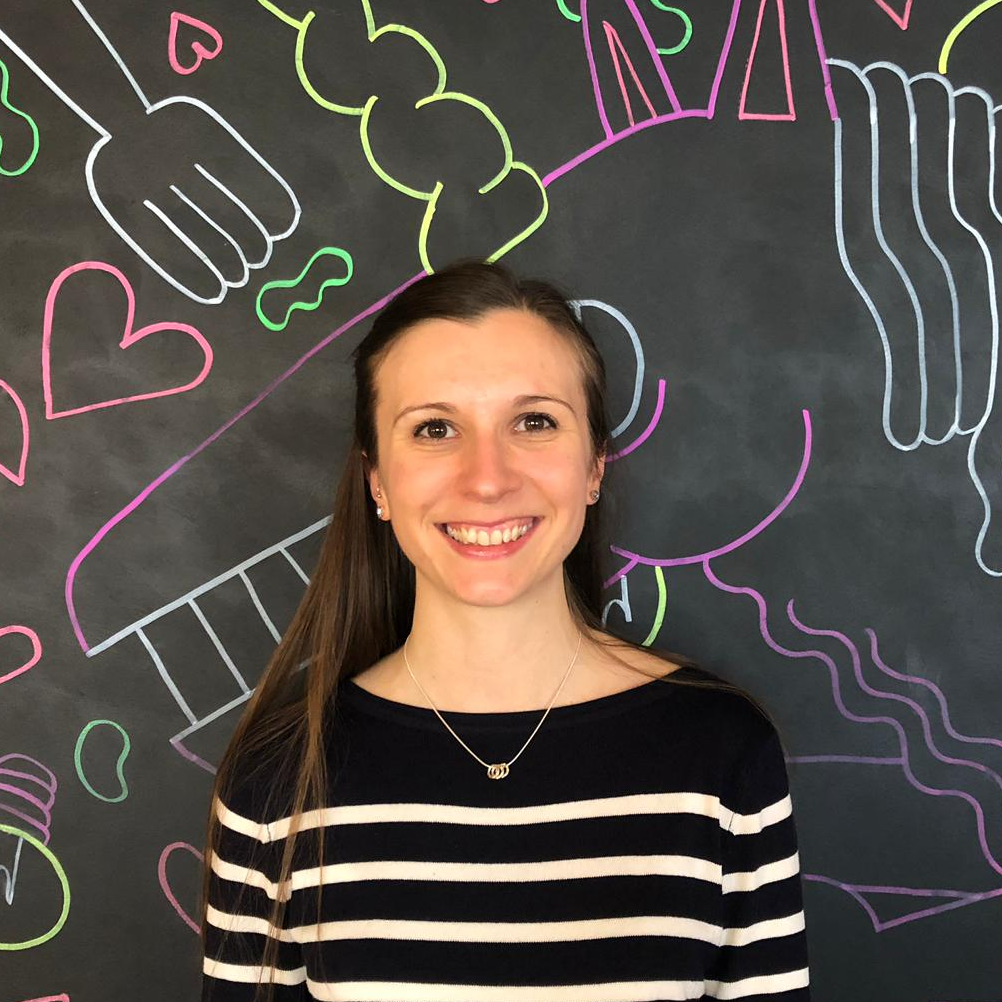
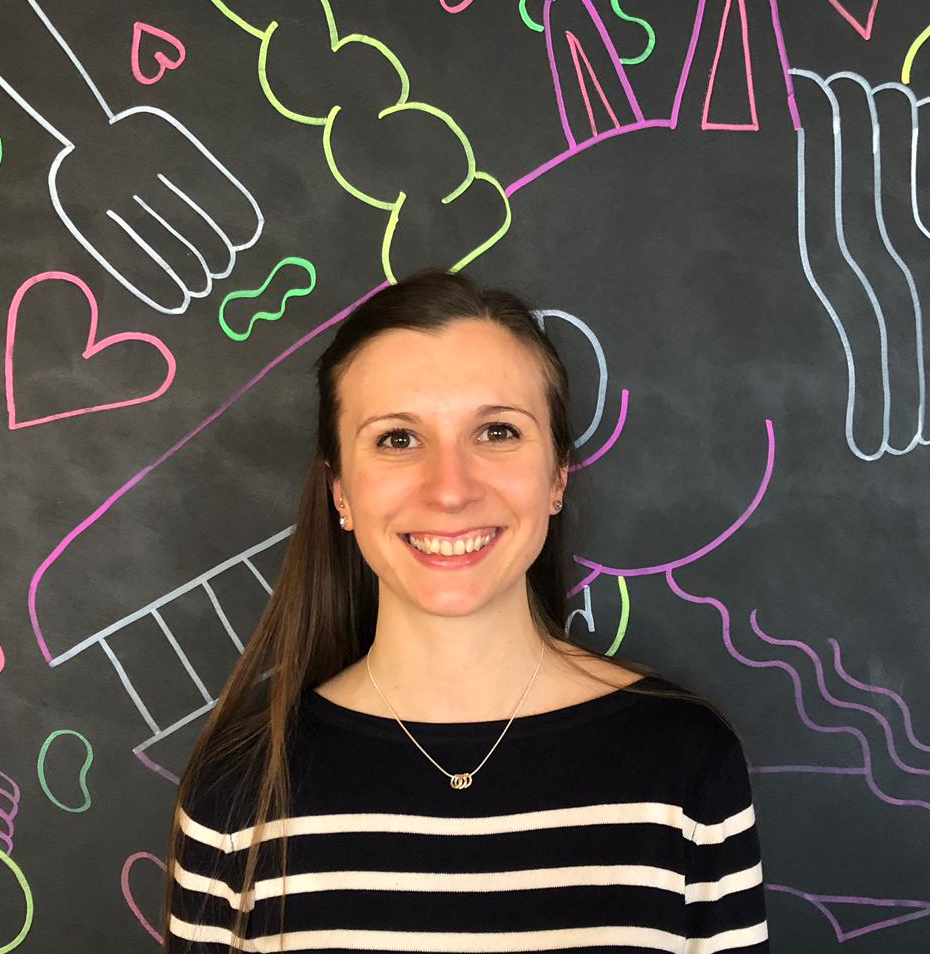
Scale images

diff --git a/src/data/projectData.js b/src/data/projectData.js
@@ -1,9 +1,9 @@
-import p1 from '../images/project1.png';
-import p2 from '../images/project2.png';
-import p3 from '../images/project3.png';
-import p5 from '../images/project5.png';
-import p6 from '../images/project6.png';
-import p7 from '../images/project7.png';
+import p1 from '../images/p1.png';
+import p2 from '../images/p2.png';
+import p3 from '../images/p3.png';
+import p5 from '../images/p5.png';
+import p6 from '../images/p6.png';
+import p7 from '../images/p7.png';
 
 const projectData = [
   {

diff --git a/src/components/story/Story.js b/src/components/story/Story.js
@@ -2,7 +2,7 @@ import React from 'react';
 import './story.scss';
 import swansea from '../../images/story/swansea.jpg';
 import teaching from '../../images/story/teaching.jpg';
-import adalab from '../../images/story/logo-adalab.svg';
+import adalab from '../../images/story/logo-adalab.png';
 import './story.scss';
 
 class Story extends React.Component {
